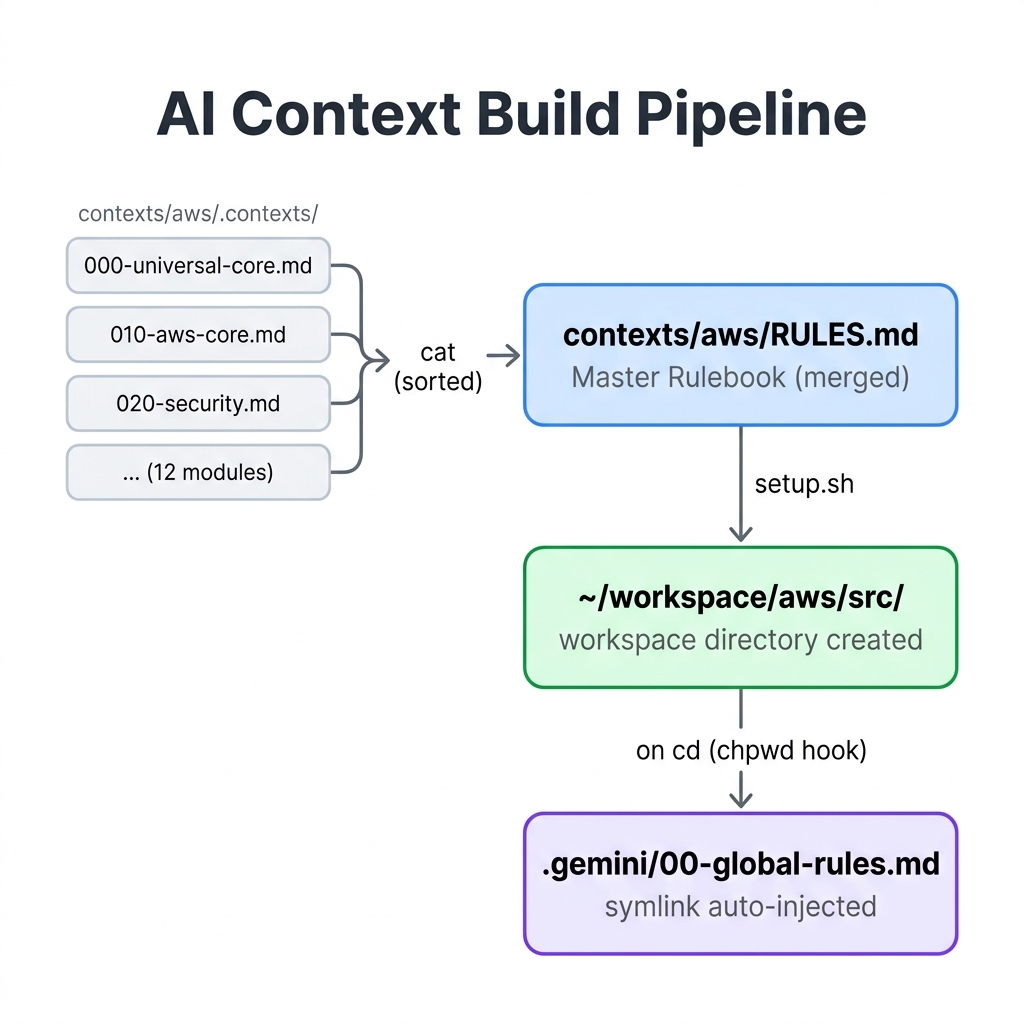
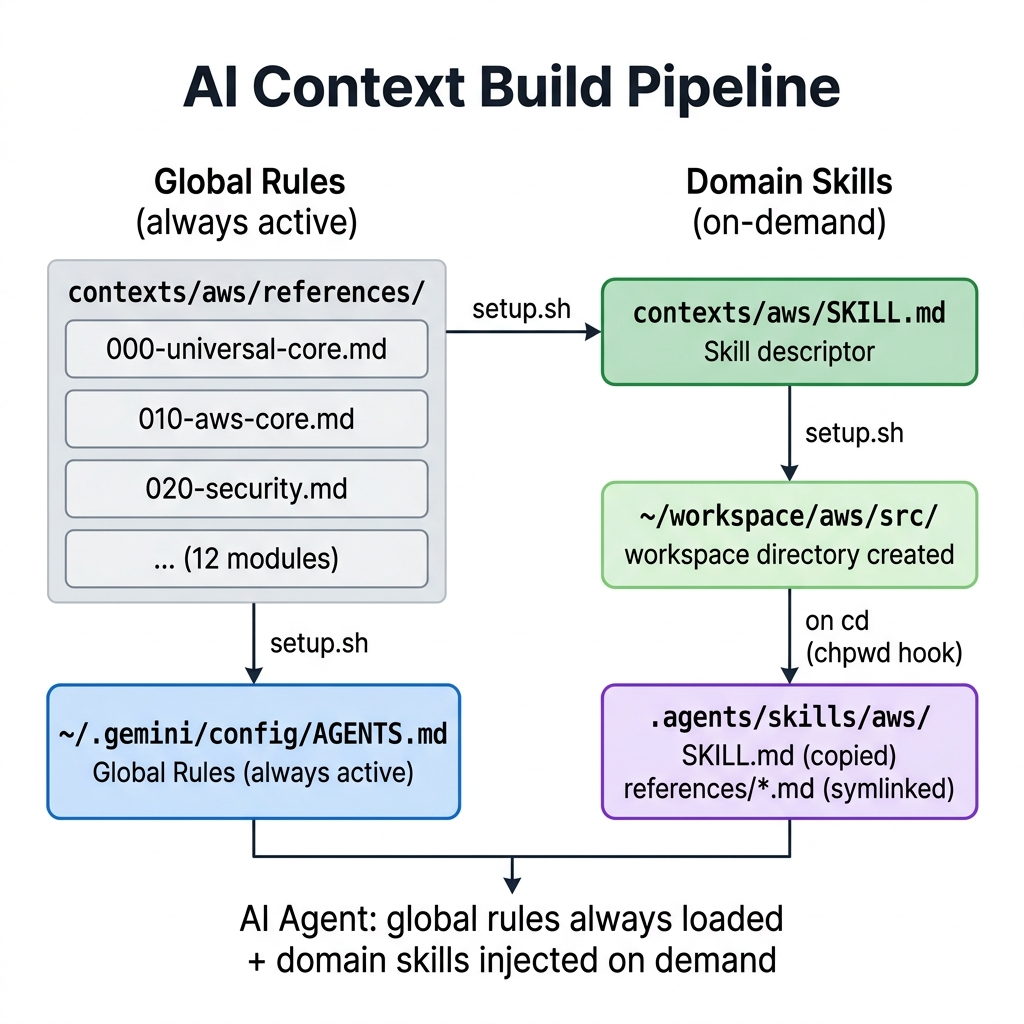
docs: 신규 AI Customization 구조 도입에 따른 가이드 및 다이어그램 최신화
- README.md 및 contexts/README.md 내 동작 원리(Shadow AI -> AI Customization) 설명 개편
- setup 파이프라인 및 chpwd 훅의 구조 변경을 반영하여 아키텍처 다이어그램(PNG) 3종 전면 교체

diff --git a/README.md b/README.md
@@ -44,7 +44,7 @@ cd ~/dotfiles
 | **[2/6]** Oh My Zsh 구성 | Oh My Zsh + `zsh-autosuggestions`, `zsh-syntax-highlighting` 플러그인 설치 |
 | **[3/6]** Stow 심볼릭 링크 | 기존 설정 파일 백업 후, `zsh/vim/mise/git` 설정을 홈 디렉토리로 symlink |
 | **[4/6]** mise 인프라 도구 설치 | `mise install`로 `mise.toml`에 선언된 40+ 데브옵스 도구 일괄 설치 |
-| **[5/6]** AI 컨텍스트 빌드 | `contexts/*/` 순회하여 `RULES.md` 병합, 워크스페이스 생성, `GEMINI.md` symlink |
+| **[5/6]** AI 커스터마이징 구조 주입 | `contexts/*/` 순회하며 글로벌 룰(`AGENTS.md`) 셋업 및 워크스페이스별 `SKILL.md` 생성 |
 | **[6/6]** 시크릿 보안 훅 | Trufflehog 기반 Git `pre-commit` 보안 스캔 훅 자동 구성 (시크릿 유출 원천 차단) |
 
 ### Step 3. 터미널 재시작
@@ -63,8 +63,8 @@ mise ls
 # Stow symlink 확인
 ls -la ~/.zshrc ~/.gitconfig ~/.mise.toml
 
-# AI 컨텍스트 빌드 확인
-ls ~/workspace/aws/src && cat ~/dotfiles/GEMINI.md | head -5
+# AI 컨텍스트 주입 확인
+ls ~/workspace/aws/src && cat ~/.gemini/config/AGENTS.md | head -5
 
 # 훅 동작 확인: aws workspace로 이동 후 확인
 cd ~/workspace/aws/src
@@ -99,9 +99,7 @@ ls -la .gemini/
 ├── zsh/
 │   └── .zshrc            # Zsh 설정 (Oh My Zsh, 단축어, auto_symlink 훅)
 │
-├── .aiexclude            # 루트: contexts/ 내 원본 소스 중복 인덱싱 차단
 ├── .gitignore            # dotfiles 레포 자체 Git 무시 규칙
-├── GEMINI.md             # symlink -> contexts/dotfiles/RULES.md
 ├── README.md             # 본 문서
 └── setup.sh              # 전체 환경 자동 구성 스크립트 (set -euo pipefail)
 ```
@@ -127,13 +125,13 @@ ls -la .gemini/
 - **계획 수립 및 RAG (Planning & Agentic RAG):** 인프라 구축 전 스스로 사내 규정(FinOps, K8s 등)을 탐색하여 계획서(`implementation_plan.md`)에 강제로 녹여내고(Agentic RAG), 사용자의 명시적 승인을 득한 후 실행하십시오.
 - **전문성 락킹 (Persona):** 수석 DevOps/SRE 아키텍트 페르소나를 부여받아, 사용자의 무리한 요구를 맹목적으로 따르지 말고 더 단순한 아키텍처를 능동적으로 역제안하십시오.
 
-### 3. Shadow AI Architecture (컨텍스트 자동 상속)
+### 3. AI Customization Architecture (AI 스킬 동적 주입)
 
-개발자의 로컬 환경 편의성과 팀 Git 협업 순수성을 완전히 분리하는 독자적 아키텍처입니다.
+개발자의 로컬 환경 편의성과 팀 Git 협업 순수성을 완전히 분리하면서 최신 AI 에이전트의 Customization Elements(Skills & Rules)를 완벽히 지원하는 독자적 아키텍처입니다.
 
-- **AI 룰북 자동 상속:** `cd ~/workspace/aws/src/my-repo` 시, Zsh `chpwd` 훅이 자동으로 환경별 AI 룰북(`RULES.md`)을 `.gemini/00-global-rules.md`로 심볼릭 링크합니다.
-- **Git 커밋 완전 차단:** 자동 생성된 AI 컨텍스트 파일들은 전역 `.gitignore_global`에 의해 원격 저장소와 팀원 PC를 오염시키지 않습니다.
-- **`.aiexclude` 이중 차단:** 워크스페이스에 주입된 `.aiexclude`는 분할된 원본 모듈 파일들이 AI 컨텍스트에 중복 인덱싱을 사전에 차단합니다. 이를 통해 토큰 낭비와 할루시네이션을 예방합니다.
+- **글로벌 룰 자동 주입:** `setup.sh` 실행 시 코어 룰(`000-universal-core.md`)이 글로벌 Customizations Root인 `~/.gemini/config/AGENTS.md`로 주입되어 항상 백그라운드에서 동작합니다.
+- **도메인 스킬 자동 주입:** `cd ~/workspace/aws/src/my-repo` 시, Zsh `chpwd` 훅이 자동으로 환경별 특화 룰(`references/*.md`)과 `SKILL.md`를 해당 워크스페이스의 `.agents/skills/aws/` 하위로 심볼릭 링크하여 해당 환경에 진입할 때만 스킬이 활성화되도록 합니다.
+- **Git 커밋 완전 차단:** 자동 생성된 `.agents` 디렉토리와 글로벌 룰은 전역 `.gitignore_global`에 의해 원격 저장소와 팀원 PC를 오염시키지 않습니다.
 
 ### 4. 엔터프라이즈 AI 프롬프트 세트 내장 (`contexts/` 폴더)
 
@@ -183,9 +181,9 @@ ls -la .gemini/
 Zsh 디렉토리 이동(`cd`) 이벤트를 감지하여 두 가지 핵심 심볼릭 링크를 자동 주입합니다.
 
 1. **마스터 코어 룰북 주입 훅 (`auto_symlink_contexts_core`)**
-   - 개발자가 새로운 AI 룰 폴더(예: `~/dotfiles/contexts/gcp/`)로 진입하기만 하면, 즉시 최상단 `000-universal-core.md` SSOT 마스터 파일을 해당 폴더 내부에 동적으로 링크 생성하여 멱등성을 보장합니다.
-2. **워크스페이스 작업용 주입 훅 (`auto_symlink_ai_rules`)**
-   - 개발자가 인프라 작업 폴더(예: `~/workspace/aws/src/my-repo`)로 진입하면, 해당 환경의 `RULES.md` 룰북과 `.aiexclude`를 자동으로 주입하여 작업용 AI 컨텍스트를 완성합니다.
+   - 개발자가 새로운 AI 룰 폴더(예: `~/dotfiles/contexts/gcp/`)로 진입하기만 하면, 즉시 최상단 `000-universal-core.md` SSOT 마스터 파일을 해당 폴더 내 `references/` 디렉토리에 동적으로 링크 생성하여 멱등성을 보장합니다.
+2. **워크스페이스 스킬 주입 훅 (`auto_symlink_workspace_skills`)**
+   - 개발자가 인프라 작업 폴더(예: `~/workspace/aws/src/my-repo`)로 진입하면, 해당 환경 도메인(aws)의 `SKILL.md`와 참조 룰 문서들을 `.agents/skills/aws/` 하위로 자동 주입하여 상황별 스킬 컨텍스트를 동적으로 완성합니다.
 
 <p align="center">
   <img src="assets/auto-symlink-hook.png" alt="Auto-Symlink Hook Workflow" width="480">
@@ -196,21 +194,14 @@ Zsh 디렉토리 이동(`cd`) 이벤트를 감지하여 두 가지 핵심 심볼
 ```text
 my-terraform-repo/
 ├── .git/
-├── .gemini/
-│   └── 00-global-rules.md  → ~/dotfiles/contexts/aws/RULES.md (symlink)
+├── .agents/
+│   └── skills/
+│       └── aws/
+│           ├── SKILL.md
+│           └── references/ (도메인 특화 룰 마크다운 파일들의 symlink)
 ├── .aiexclude              → ~/dotfiles/contexts/aws/.aiexclude (symlink)
 └── main.tf
 ```
-
-### GEMINI.md 심볼릭 링크 구조 (dotfiles 레포 자체)
-
-`~/dotfiles/` 레포를 AI IDE에서 열었을 때, dotfiles 관리를 위한 전용 룰북이 자동 적용됩니다.
-
-```text
-~/dotfiles/GEMINI.md  →  contexts/dotfiles/RULES.md  (심볼릭 링크)
-```
-
-`GEMINI.md`는 Gemini CLI/IDE가 자동으로 인식하는 특수 파일명입니다. 실제 본체(`RULES.md`)를 `.aiexclude`로 차단하고 심볼릭 링크만 노출함으로써, 동일 내용이 두 번 인덱싱되는 것을 방지합니다.
 
 ### 컨텍스트 빌드 파이프라인
 
@@ -316,18 +307,15 @@ src
 
 ### AI 룰 수정 및 추가 (Zero-Config)
 
-특정 워크스페이스의 AI 행동 규칙을 변경하거나 추가하려면 `references/` 폴더 내 마크다운 파일을 수정한 후 `setup.sh`를 재실행하십시오.
+특정 워크스페이스의 AI 행동 규칙을 변경하거나 추가하려면 `references/` 폴더 내 마크다운 파일을 수정한 후 `setup.sh`를 재실행할 필요 없이 즉시 적용됩니다. 단, 새로운 도메인이나 스킬을 추가할 때는 `setup.sh`를 실행해 구조를 셋업해야 합니다.
 
 > [!TIP]
 > **신규 룰 추가 시 가이드 (태그 내재화)**
-> 특정 기술 스택에만 조건부로 적용되어야 하는 룰이라면, 파일 내용 전체를 `<domain_specific_rules instruction="Apply these rules only if the current task involves the specific technology.">` 태그로 감싸주십시오. `setup.sh`가 내부에 태그가 포함되어 있는지 자동 감지(grep)하여 글로벌 룰과 도메인 룰을 스마트하게 분리 및 병합하는 **Zero-Config 아키텍처**로 동작합니다.
+> 특정 기술 스택에만 조건부로 적용되어야 하는 룰이라면, 파일 내용 전체를 `<domain_specific_rules instruction="Apply these rules only if the current task involves the specific technology.">` 태그로 감싸주십시오. 도메인 스킬이 발동되었을 때, 이 태그로 묶인 내용이 관련 작업에서만 집중력(Attention)을 갖게 됩니다.
 
 ```bash
 # 예: AWS 보안 규칙 수정
 vim ~/dotfiles/contexts/aws/references/020-security-compliance.md
-
-# 수정 후 RULES.md 재빌드
-~/dotfiles/setup.sh
 ```
 
 ### 신규 워크스페이스 추가
